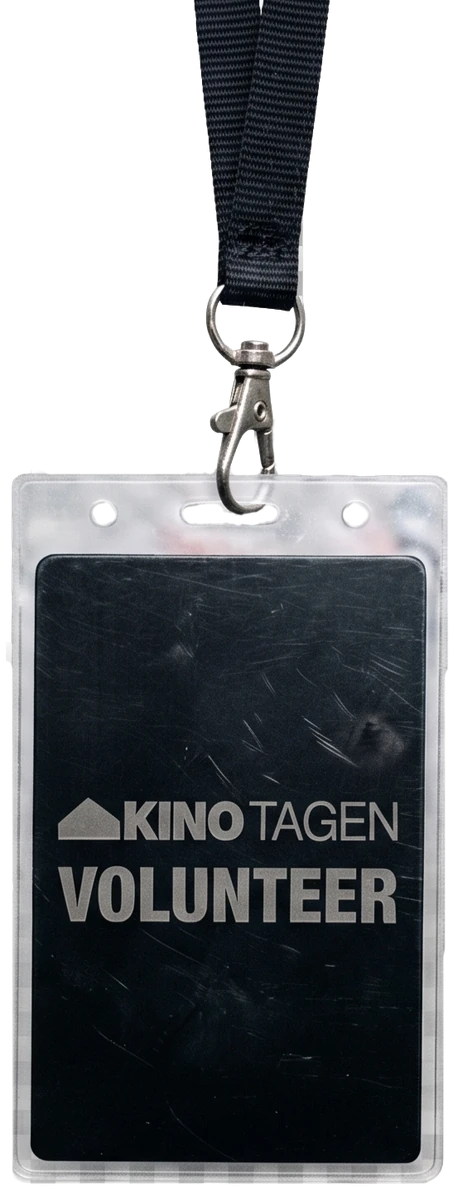
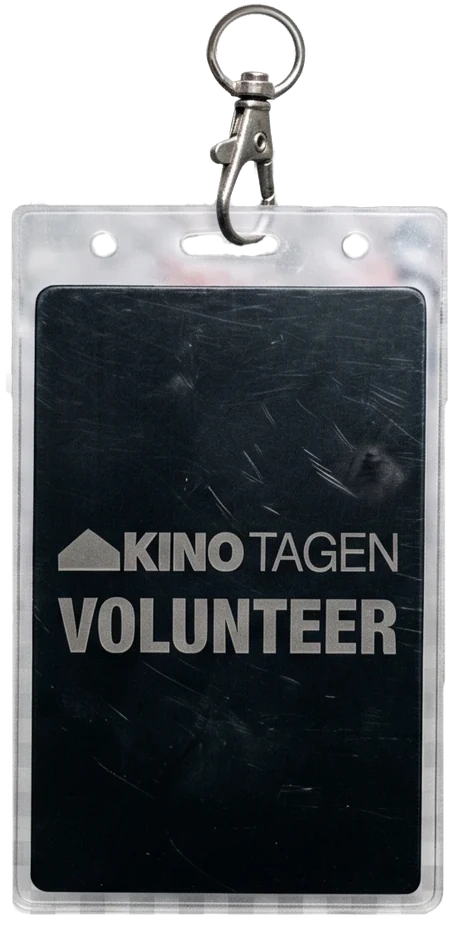
Text as obstacles, bigger objects, new headline
- Headline "Hi! I’m Yelyzaveta Volkova"; top bar and eyebrow removed, smaller type
- Objects fall around the text (text blocks are colliders) and hang over the
  screen edges; one of each, drawn large
- Kino badge without the cut-off strap (ring top rebuilt); added red Alta bag,
  Oxis badge and blue Oxis record sleeve
- Phones: objects fall into a separate box below the project list

Claude-Session: https://claude.ai/code/session_01QeynNN9sgHemNmtMBCwfCa

diff --git a/index.html b/index.html
@@ -3,8 +3,8 @@
 <head>
 <meta charset="UTF-8">
 <meta name="viewport" content="width=device-width,initial-scale=1">
-<title>Yelyzaveta Volkova — Graphic design portfolio</title>
-<meta name="description" content="Lisa (Yelyzaveta) Volkova — graphic designer working between culture and marketing: identities, packaging and ad creatives.">
+<title>Yelyzaveta Volkova · Portfolio</title>
+<meta name="description" content="Lisa (Yelyzaveta) Volkova, graphic designer. Portfolio.">
 <link rel="preconnect" href="https://fonts.googleapis.com">
 <link rel="preconnect" href="https://fonts.gstatic.com" crossorigin>
 <link href="https://fonts.googleapis.com/css2?family=LINE+Seed+JP:wght@400;700&family=Stack+Sans+Headline:wght@400..700&display=swap" rel="stylesheet">
@@ -18,61 +18,54 @@
 }
 *{margin:0;padding:0;box-sizing:border-box}
 html{-webkit-text-size-adjust:100%}
-body{background:var(--bg);color:var(--ink);font-family:var(--body);-webkit-font-smoothing:antialiased;
- min-height:100vh;min-height:100svh;overflow-x:hidden}
+body{background:var(--bg);color:var(--ink);font-family:var(--body);-webkit-font-smoothing:antialiased;overflow-x:hidden}
 button{font:inherit;color:inherit;background:none;border:0;cursor:pointer;text-align:left}
 :focus-visible{outline:2px solid var(--ink);outline-offset:3px}
 
-/* Text sits on white "labels" so it stays readable when objects pile up behind it */
-.hl{background:var(--bg);-webkit-box-decoration-break:clone;box-decoration-break:clone;pointer-events:auto;
- padding:.16em 0;box-shadow:.3em 0 0 var(--bg),-.3em 0 0 var(--bg)}
-
-/* ---------- top bar ---------- */
-.bar{position:absolute;top:0;left:0;right:0;z-index:3;display:flex;justify-content:space-between;align-items:baseline;
- padding:calc(var(--gut) + 6px) var(--gut) 0;font-size:clamp(16px,1.45vw,21px);letter-spacing:.005em;pointer-events:none}
-
 /* ---------- hero ---------- */
-.hero{position:relative;z-index:2;min-height:100vh;min-height:100svh;display:flex;flex-direction:column;justify-content:center;
- padding:clamp(110px,14vh,150px) var(--gut) clamp(70px,10vh,110px) calc(var(--gut) + var(--indent));pointer-events:none}
-.eyebrow{font-size:clamp(18px,1.9vw,28px);margin-bottom:clamp(6px,1vw,14px)}
-h1{font-family:var(--head);font-weight:700;font-size:clamp(54px,10.2vw,172px);line-height:.94;letter-spacing:-.035em;
- margin-left:-.05em;max-width:12ch}
-.cols{display:grid;grid-template-columns:minmax(0,34ch) minmax(0,520px);gap:clamp(28px,6vw,110px);
- margin-top:clamp(28px,5.2vh,60px);align-items:start}
-.intro{font-size:clamp(17px,1.5vw,22px);line-height:1.42}
+.hero{position:relative;min-height:100vh;min-height:100svh;display:flex;flex-direction:column;justify-content:center;overflow:hidden;
+ padding:clamp(72px,11vh,120px) var(--gut) clamp(80px,11vh,120px) calc(var(--gut) + var(--indent))}
+.hero>*:not(#pile){position:relative;z-index:2}
+/* the name (~8.3em) stays on one line, so the size is capped by the available width */
+h1{font-family:var(--head);font-weight:700;font-size:min(clamp(40px,7vw,116px),calc((100vw - 2*var(--gut) - var(--indent))/8.6));
+ line-height:.94;letter-spacing:-.035em;margin-left:-.05em;align-self:flex-start}
+.cols{display:grid;grid-template-columns:minmax(0,30ch) minmax(0,460px);gap:clamp(28px,6vw,110px);
+ margin-top:clamp(24px,4.4vh,48px);align-items:start;justify-content:start}
+.intro{font-size:clamp(15px,1.2vw,18px);line-height:1.45}
 
 /* ---------- project index ---------- */
-.work{pointer-events:auto}
-.work .lbl{font-size:12px;letter-spacing:.14em;text-transform:uppercase;color:var(--muted);margin-bottom:10px;display:inline-block}
+.work .lbl{font-size:11px;letter-spacing:.14em;text-transform:uppercase;color:var(--muted);margin-bottom:10px;display:block}
 .work ol{list-style:none}
 .row{display:grid;grid-template-columns:2.6em 1fr auto;gap:0 14px;align-items:baseline;width:100%;
- padding:13px 0 12px;border-top:1px solid var(--hair);background:var(--bg);transition:padding .35s cubic-bezier(.2,.7,.2,1)}
+ padding:11px 0 10px;border-top:1px solid var(--hair);transition:padding .35s cubic-bezier(.2,.7,.2,1)}
 .work li:last-child .row{border-bottom:1px solid var(--hair)}
-.row .no{font-size:13px;color:var(--muted);font-variant-numeric:tabular-nums}
-.row .nm{font-family:var(--head);font-weight:600;font-size:clamp(19px,1.6vw,24px);letter-spacing:-.01em}
-.row .ds{font-size:clamp(13px,1vw,15px);color:var(--muted);text-align:right}
+.row .no{font-size:12px;color:var(--muted);font-variant-numeric:tabular-nums}
+.row .nm{font-family:var(--head);font-weight:600;font-size:clamp(16px,1.25vw,19px);letter-spacing:-.01em}
+.row .ds{font-size:clamp(12px,.9vw,14px);color:var(--muted);text-align:right}
 .row .ar{display:inline-block;width:0;overflow:hidden;opacity:0;transition:width .35s,opacity .3s;vertical-align:bottom}
 .row:hover,.row.hot{padding-left:10px}
 .row:hover .ar,.row.hot .ar{width:1.2em;opacity:1}
 
 /* ---------- falling objects ---------- */
-#pile{position:fixed;inset:0;z-index:1;overflow:hidden;user-select:none;-webkit-user-select:none;pointer-events:none}
+/* #pile lives in the hero on wide screens (objects fall around the text) and in #play on narrow ones */
+#pile{position:absolute;inset:0;z-index:1;overflow:hidden;user-select:none;-webkit-user-select:none;pointer-events:none}
 body.raining #pile{pointer-events:auto}
 #pile.grab{cursor:grab}#pile.grabbing{cursor:grabbing}
 .it{position:absolute;left:0;top:0;will-change:transform;transition:opacity .35s}
 .it img{display:block;width:100%;height:100%;pointer-events:none;-webkit-user-drag:none;
  filter:drop-shadow(0 10px 14px rgba(0,0,0,.16))}
 #pile.focus .it:not(.on){opacity:.12}
+#play{display:none;position:relative;height:72vh;height:72svh;border-top:1px solid var(--hair);overflow:hidden}
 
 #tip{position:fixed;left:0;top:0;z-index:6;pointer-events:none;background:var(--ink);color:var(--bg);font-size:13px;
  padding:7px 11px 6px;border-radius:100px;white-space:nowrap;opacity:0;transition:opacity .15s}
 #tip.show{opacity:1}
 #tip b{font-family:var(--head);font-weight:600;margin:0 .35em}
 
-.ctl{position:fixed;right:var(--gut);bottom:var(--gut);z-index:4;display:flex;gap:10px;align-items:center;
+.ctl{position:absolute!important;right:var(--gut);bottom:var(--gut);display:flex;gap:14px;align-items:center;
  opacity:0;transform:translateY(8px);transition:opacity .5s,transform .5s;pointer-events:none}
 body.ready .ctl{opacity:1;transform:none;pointer-events:auto}
-.ctl .hint{font-size:12px;color:var(--muted);background:var(--bg);padding:4px 6px}
+.ctl .hint{font-size:12px;color:var(--muted)}
 .pill{font-size:13px;border:1px solid var(--ink);background:var(--bg);border-radius:100px;padding:9px 16px 8px;transition:background .2s,color .2s}
 .pill:hover{background:var(--ink);color:var(--bg)}
 
@@ -85,26 +78,31 @@ body.ready .ctl{opacity:1;transform:none;pointer-events:auto}
 .cin{max-width:1180px;margin:0 auto;padding:clamp(30px,6vh,70px) var(--gut) 110px}
 .chead{margin-bottom:clamp(36px,6vh,64px)}
 .chead .no{font-size:14px;color:var(--muted);font-variant-numeric:tabular-nums}
-.chead h2{font-family:var(--head);font-weight:700;font-size:clamp(46px,8vw,128px);line-height:.95;letter-spacing:-.035em;margin:10px 0 14px -.04em}
-.chead .d{font-size:clamp(17px,1.5vw,22px)}
+.chead h2{font-family:var(--head);font-weight:700;font-size:clamp(38px,6vw,96px);line-height:.95;letter-spacing:-.035em;margin:10px 0 14px -.04em}
+.chead .d{font-size:clamp(15px,1.2vw,18px)}
 .deck{display:flex;flex-direction:column;gap:clamp(14px,2vw,26px)}
 .deck img{display:block;width:100%;height:auto;background:#f4f4f4}
 .cnext{margin-top:clamp(50px,8vh,90px);border-top:1px solid var(--hair);padding-top:22px;width:100%;display:flex;
  justify-content:space-between;align-items:baseline;gap:16px}
 .cnext span{font-size:13px;color:var(--muted)}
-.cnext b{font-family:var(--head);font-weight:700;font-size:clamp(30px,4.5vw,64px);letter-spacing:-.03em;transition:transform .35s}
+.cnext b{font-family:var(--head);font-weight:700;font-size:clamp(26px,3.4vw,48px);letter-spacing:-.03em;transition:transform .35s}
 .cnext:hover b{transform:translateX(-10px)}
 
 @media (max-width:900px){
  :root{--indent:0px}
  .cols{grid-template-columns:1fr;gap:44px}
  .intro{max-width:34ch}
- .row .ds{font-size:13px}
+ .row .ds{font-size:12px}
+}
+@media (max-width:700px){
+ .hero{min-height:0;padding-bottom:56px}
+ #play{display:block}
+ .ctl{top:var(--gut);bottom:auto}
+ .ctl .hint{display:none}
 }
 @media (max-width:520px){
  .row{grid-template-columns:2.2em 1fr}
  .row .ds{grid-column:2;text-align:left;margin-top:3px}
- .ctl .hint{display:none}
 }
 @media (hover:none),(pointer:coarse){
  body.raining #pile{pointer-events:none}
@@ -115,17 +113,13 @@ body.ready .ctl{opacity:1;transform:none;pointer-events:auto}
 </head>
 <body>
 
-<div id="pile" aria-hidden="true"></div>
-
-<header class="bar"><span class="hl">Yelyzaveta Volkova</span><span class="hl">2026</span></header>
-
-<main class="hero">
- <p class="eyebrow"><span class="hl">Graphic design</span></p>
- <h1>Hi! My name<br> is Lisa!</h1>
+<main class="hero" id="hero">
+ <div id="pile" aria-hidden="true"></div>
+ <h1>Hi! I’m<br>Yelyzaveta&nbsp;Volkova</h1>
  <div class="cols">
-  <p class="intro"><span class="hl">I’m a graphic designer working between culture and marketing. I’ve made identities and visuals for film festivals, exhibitions and music labels — and ad creatives that have to perform. I enjoy designing things people stop for, for projects that make a difference.</span></p>
+  <p class="intro">I’m a graphic designer working between culture and marketing. I’ve made identities and visuals for film festivals, exhibitions and music labels, and ad creatives that have to perform. I enjoy designing things people stop for, for projects that make a difference.</p>
   <nav class="work" aria-label="Selected work">
-   <span class="lbl hl">Selected work</span>
+   <span class="lbl">Selected work</span>
    <ol>
     <li><button class="row" data-id="kino"><span class="no">01</span><span class="nm">Kino Tagen<span class="ar"> →</span></span><span class="ds">Identity for a film festival</span></button></li>
     <li><button class="row" data-id="chimera"><span class="no">02</span><span class="nm">Chimèra<span class="ar"> →</span></span><span class="ds">Packaging design</span></button></li>
@@ -135,9 +129,9 @@ body.ready .ctl{opacity:1;transform:none;pointer-events:auto}
    </ol>
   </nav>
  </div>
+ <div class="ctl"><span class="hint">Drag things around · click one to open it</span><button class="pill" id="clear">Clear the table</button></div>
 </main>
-
-<div class="ctl"><span class="hint">Drag things around · click one to open it</span><button class="pill" id="clear">Clear the table</button></div>
+<section id="play" aria-hidden="true"></section>
 <div id="tip"></div>
 
 <section id="case" aria-hidden="true">
@@ -155,9 +149,9 @@ body.ready .ctl{opacity:1;transform:none;pointer-events:auto}
 // size: object height as a share of sqrt(viewport area); fill: how much of its box the object covers.
 // shape: collider parts in image-relative units (0..1): ['r',x0,y0,x1,y1] rectangle, ['c',cx,cy,r] circle (r in widths)
 const WORK=[
- {id:'kino',no:'01',name:'Kino Tagen',desc:'Identity for a film festival',ar:453/1200,size:.25,fill:.6,
+ {id:'kino',no:'01',name:'Kino Tagen',desc:'Identity for a film festival',ar:453/931,size:.194,fill:.7,
   deck:Array.from({length:13},(_,i)=>[`kino-${String(i+1).padStart(2,'0')}`,1250,804]),
-  shape:[['r',.44,.0,.70,.40],['r',.03,.395,.98,.99]]},
+  shape:[['r',.45,0,.68,.225],['r',.03,.22,.98,.987]]},
  {id:'chimera',no:'02',name:'Chimèra',desc:'Packaging design',ar:315/1200,size:.27,fill:.8,
   deck:[['chimera-01',1250,6072]],
   shape:[['r',.31,.015,.69,.37],['r',.02,.35,.985,.99]]},
@@ -172,33 +166,68 @@ const WORK=[
   shape:[['r',.02,0,.99,1]]},
 ];
 const byId=Object.fromEntries(WORK.map(p=>[p.id,p]));
+// what falls: one of each, each tied to its project. MORE are extra objects from the project mockups.
+const MORE=[
+ {id:'alta',f:'alta-bag-red',ar:.619,size:.19,shape:[['p',[[.012,.951],[.012,.286],[.062,.028],[.116,.02],[.851,.008],[.917,.018],[.983,.253],[.983,.962],[.893,.99],[.219,.967]]]]},
+ {id:'oxis',f:'oxis-sleeve-blue',ar:1.036,size:.17,shape:[['r',0,0,1,1]]},
+ {id:'oxis',f:'oxis-badge',ar:372/632,size:.3,shape:[['r',0.027,0.324,0.599,0.88],['p',[[0.599,0.068],[0.742,0.068],[0.371,0.313],[0.304,0.315],[0.282,0.301],[0.285,0.278],[0.433,0.161],[0.513,0.109]]],['p',[[0.688,0.913],[0.602,0.066],[0.726,0.013],[0.852,0.081],[0.879,0.191],[0.96,0.886],[0.89,0.965],[0.774,0.97]]]]},
+];
+const KINDS=[...WORK.map(p=>({p,src:`assets/objects/${p.id}.webp`,ar:p.ar,size:p.size,shape:p.shape})),
+ ...MORE.map(e=>({p:byId[e.id],src:`assets/objects/${e.f}.webp`,ar:e.ar,size:e.size,shape:e.shape}))];
+const BIG=1.7;   // objects are drawn large and may hang over the edges of the screen
 
 /* ---------- falling objects ---------- */
 const RAIN_DELAY=10000;   // ms of visible time before things start to fall
-const {Engine,Bodies,Body,Composite,Constraint,Query,Sleeping}=Matter;
-const pile=document.getElementById('pile'),tip=document.getElementById('tip'),clearBtn=document.getElementById('clear');
+const {Engine,Bodies,Body,Composite,Constraint,Query,Sleeping,Vertices}=Matter;
+const pile=document.getElementById('pile'),hero=document.getElementById('hero'),play=document.getElementById('play');
+const tip=document.getElementById('tip'),clearBtn=document.getElementById('clear'),ctl=document.querySelector('.ctl');
 const rows=[...document.querySelectorAll('.row')];
 const reduced=matchMedia('(prefers-reduced-motion: reduce)').matches;
 const touch=matchMedia('(hover: none), (pointer: coarse)').matches;
+const narrow=matchMedia('(max-width: 700px)');
 const engine=Engine.create({enableSleeping:true});engine.gravity.y=1.1;
 const world=engine.world;
 const T=600;
-let W=innerWidth,H=innerHeight,items=[],walls=[],paused=false,state='idle',focusId=null;
-const unit=()=>Math.sqrt(W*H)*(W<600?1.05:1);
+let W=0,H=0,items=[],walls=[],obstacles=[],paused=false,state='idle',focusId=null;
+const unit=()=>Math.sqrt(innerWidth*innerHeight)*(narrow.matches?.9:.72);
 
-function buildWalls(){
- Composite.remove(world,walls);
- const o={isStatic:true,friction:.6,restitution:.1};
- walls=[Bodies.rectangle(-T/2,H-9000,T,20000,o),Bodies.rectangle(W+T/2,H-9000,T,20000,o)];
- if(state!=='clearing')walls.push(Bodies.rectangle(W/2,H+T/2,W+2*T,T,o));   // floor
- Composite.add(world,walls);
+// On wide screens the objects fall inside the hero and bounce off the text; on narrow ones they fill #play below it
+function mount(){
+ const box=narrow.matches?play:hero;
+ if(pile.parentNode!==box){box.prepend(pile);box.appendChild(ctl)}
+ W=box.clientWidth;H=box.clientHeight;
 }
-buildWalls();
+function rel(r){const b=pile.getBoundingClientRect();return{x:r.left-b.left,y:r.top-b.top,w:r.width,h:r.height}}
+function textRects(){
+ if(narrow.matches)return[];
+ const out=[];
+ const lines=el=>{const rg=document.createRange();rg.selectNodeContents(el);
+  // one rect per line, trimmed to the ink so objects can sit right on the letters
+  const cut=el.tagName==='H1'?[.2,.1]:[.12,.08];
+  [...rg.getClientRects()].filter(r=>r.width>4).forEach(r=>{const q=rel(r);q.y+=q.h*cut[0];q.h*=1-cut[0]-cut[1];out.push(q)})};
+ lines(document.querySelector('h1'));lines(document.querySelector('.intro'));
+ out.push(rel(document.querySelector('.work').getBoundingClientRect()));
+ if(document.body.classList.contains('ready'))out.push(rel(ctl.getBoundingClientRect()));
+ return out;
+}
+const edge=()=>unit()*(narrow.matches?.07:.09);
+function buildWalls(){
+ Composite.remove(world,walls);Composite.remove(world,obstacles);obstacles=[];
+ const o={isStatic:true,friction:.6,restitution:.1},m=edge();
+ // sides and floor sit outside the visible frame, so objects resting there are cut by the edge
+ walls=[Bodies.rectangle(-m-T/2,H-9000,T,20000,o),Bodies.rectangle(W+m+T/2,H-9000,T,20000,o)];
+ if(state!=='clearing'){
+  walls.push(Bodies.rectangle(W/2,H+m+T/2,W+2*T,T,o));   // floor
+  obstacles=textRects().map(r=>Bodies.rectangle(r.x+r.w/2,r.y+r.h/2,r.w,Math.max(r.h,8),{...o,chamfer:{radius:Math.min(6,r.h/3)}}));
+ }
+ Composite.add(world,walls);Composite.add(world,obstacles);
+}
 
-function makeItem(p,x,y,scale){
- const h=p.size*unit()*scale,w=h*p.ar,x0=x-w/2,y0=y-h/2;
- const parts=p.shape.map(s=>s[0]==='c'
-  ?Bodies.circle(x0+s[1]*w,y0+s[2]*h,s[3]*w)
+function makeItem(k,x,y,scale){
+ const p=k.p,h=k.size*unit()*scale,w=h*k.ar,x0=x-w/2,y0=y-h/2;
+ const poly=vs=>{const c=Vertices.centre(vs);return Bodies.fromVertices(c.x,c.y,[vs])};
+ const parts=k.shape.map(s=>s[0]==='c'?Bodies.circle(x0+s[1]*w,y0+s[2]*h,s[3]*w)
+  :s[0]==='p'?poly(s[1].map(([u,v])=>({x:x0+u*w,y:y0+v*h})))
   :Bodies.rectangle(x0+(s[1]+s[3])/2*w,y0+(s[2]+s[4])/2*h,(s[3]-s[1])*w,(s[4]-s[2])*h,{chamfer:{radius:Math.min(w,h)*.04}}));
  const body=parts.length>1?Body.create({parts}):parts[0];
  Object.assign(body,{friction:.55,frictionStatic:.8,restitution:.12,frictionAir:.012});
@@ -208,7 +237,7 @@ function makeItem(p,x,y,scale){
  Body.setVelocity(body,{x:(Math.random()-.5)*2,y:2+Math.random()*3});
  const el=document.createElement('div');el.className='it';el.style.width=w+'px';el.style.height=h+'px';
  el.style.marginLeft=-w/2+'px';el.style.marginTop=-h/2+'px';
- const im=new Image();im.src=`assets/objects/${p.id}.webp`;im.alt='';im.draggable=false;el.appendChild(im);
+ const im=new Image();im.src=k.src;im.alt='';im.draggable=false;el.appendChild(im);
  if(focusId)el.classList.toggle('on',p.id===focusId);
  pile.appendChild(el);Composite.add(world,body);
  const it={p,body,el,off};body.item=it;items.push(it);place(it);
@@ -222,21 +251,17 @@ let spawnTimer=null;
 function rain(){
  if(state==='raining')return;
  state='raining';document.body.classList.add('raining','ready');clearBtn.textContent='Clear the table';
- buildWalls();
- // copies until they cover about half the screen (a third on phones, so reading isn't crowded)
- const target=W*H*(W<600?.34:.5),order=[],deck=[];let area=0;
- while(area<target&&order.length<90){
-  if(!deck.length)deck.push(...WORK.slice().sort(()=>Math.random()-.5));
-  const p=deck.pop(),sc=.82+Math.random()*.3,h=p.size*unit()*sc;
-  order.push([p,sc]);area+=h*h*p.ar*p.fill;
- }
+ mount();buildWalls();
+ // one of each, dropped across the whole width (edges included) in random order
+ const n=KINDS.length,slots=Array.from({length:n},(_,j)=>.03+.94*j/(n-1)).sort(()=>Math.random()-.5);
+ const order=KINDS.slice().sort(()=>Math.random()-.5).map((k,j)=>[k,BIG*(.94+Math.random()*.12),slots[j]]);
  let i=0;clearInterval(spawnTimer);
  spawnTimer=setInterval(()=>{
   if(paused)return;
   if(i>=order.length){clearInterval(spawnTimer);return}
-  const [p,sc]=order[i++],h=p.size*unit()*sc,w=h*p.ar;
-  makeItem(p,w/2+10+Math.random()*Math.max(1,W-w-20),-h*.75-Math.random()*120,sc);
- },W<600?150:95);
+  const [k,sc,slot]=order[i++],h=k.size*unit()*sc;
+  makeItem(k,slot*W+(Math.random()-.5)*W*.06,-h*.6-Math.random()*80,sc);
+ },narrow.matches?260:220);
 }
 function clearTable(){
  clearInterval(spawnTimer);state='clearing';buildWalls();
@@ -261,12 +286,17 @@ function frame(now){
 requestAnimationFrame(frame);
 function setPaused(v){paused=v;last=performance.now()}
 
-/* start after RAIN_DELAY of visible time; images are decoded first so nothing falls in empty */
-const decoded=Promise.all(WORK.map(p=>{const im=new Image();im.src=`assets/objects/${p.id}.webp`;return im.decode().catch(()=>{})}));
+/* start after RAIN_DELAY of visible time (on phones: once the box below is scrolled into view);
+   fonts and images load first so the text shapes are final and nothing falls in empty */
+mount();
+const ready=Promise.all([document.fonts.ready,...KINDS.map(k=>{const im=new Image();im.src=k.src;return im.decode().catch(()=>{})})]);
 if(reduced){document.body.classList.add('ready');clearBtn.textContent='Drop the objects'}
-else{
+else if(narrow.matches){
+ const io=new IntersectionObserver(es=>{if(es[0].isIntersecting){io.disconnect();ready.then(rain)}},{threshold:.35});
+ io.observe(play);
+}else{
  let left=RAIN_DELAY,startedAt=0,t=null;
- const arm=()=>{if(state!=='idle'||document.hidden||t)return;startedAt=performance.now();t=setTimeout(()=>decoded.then(rain),left)};
+ const arm=()=>{if(state!=='idle'||document.hidden||t)return;startedAt=performance.now();t=setTimeout(()=>ready.then(rain),left)};
  const disarm=()=>{if(!t)return;clearTimeout(t);t=null;left=Math.max(0,left-(performance.now()-startedAt))};
  document.addEventListener('visibilitychange',()=>document.hidden?disarm():arm());
  arm();
@@ -274,6 +304,7 @@ else{
 
 /* ---------- hover, drag, click ---------- */
 function focusProject(id){
+ if(id&&!items.some(it=>it.p.id===id))id=null;   // nothing of this project on screen: don't dim the rest
  focusId=id;pile.classList.toggle('focus',!!id);
  items.forEach(it=>it.el.classList.toggle('on',it.p.id===id));
 }
@@ -286,18 +317,20 @@ function bodyAt(x,y){
 let drag=null,hotRow=null;
 function setHot(id){if(hotRow)hotRow.classList.remove('hot');hotRow=id?rows.find(r=>r.dataset.id===id):null;if(hotRow)hotRow.classList.add('hot')}
 if(!touch){
+ const pt=e=>{const b=pile.getBoundingClientRect();return{x:e.clientX-b.left,y:e.clientY-b.top}};
  pile.addEventListener('pointermove',e=>{
-  const x=e.clientX,y=e.clientY;
+  const {x,y}=pt(e);
   if(drag){drag.c.pointA={x,y};return}
   const b=bodyAt(x,y);
   pile.classList.toggle('grab',!!b);
-  if(b){const p=b.item.p;tip.innerHTML=`${p.no}<b>${p.name}</b>${p.desc.toLowerCase()}`;
-   tip.style.transform=`translate(${Math.min(x+16,W-tip.offsetWidth-8)}px,${y+52>H?y-tip.offsetHeight-12:y+18}px)`;tip.classList.add('show');setHot(p.id)}
+  if(b){const p=b.item.p,cx=e.clientX,cy=e.clientY;tip.innerHTML=`${p.no}<b>${p.name}</b>${p.desc.toLowerCase()}`;
+   tip.style.transform=`translate(${Math.min(cx+16,innerWidth-tip.offsetWidth-8)}px,${cy+52>innerHeight?cy-tip.offsetHeight-12:cy+18}px)`;
+   tip.classList.add('show');setHot(p.id)}
   else{tip.classList.remove('show');setHot(null)}
  });
  pile.addEventListener('pointerleave',()=>{if(!drag){tip.classList.remove('show');setHot(null);pile.classList.remove('grab')}});
  pile.addEventListener('pointerdown',e=>{
-  const x=e.clientX,y=e.clientY,b=bodyAt(x,y);if(!b)return;
+  const {x,y}=pt(e),b=bodyAt(x,y);if(!b)return;
   e.preventDefault();pile.setPointerCapture(e.pointerId);
   Sleeping.set(b,false);
   const c=Constraint.create({pointA:{x,y},bodyB:b,pointB:{x:x-b.position.x,y:y-b.position.y},stiffness:.18,damping:.1,length:0});
@@ -308,7 +341,7 @@ if(!touch){
  const drop=e=>{
   if(!drag)return;
   Composite.remove(world,drag.c);pile.classList.remove('grabbing');
-  const click=Math.hypot(e.clientX-drag.x,e.clientY-drag.y)<6&&performance.now()-drag.t<400,id=drag.b.item.p.id;
+  const {x,y}=pt(e),click=Math.hypot(x-drag.x,y-drag.y)<6&&performance.now()-drag.t<400,id=drag.b.item.p.id;
   drag=null;
   if(click&&e.type==='pointerup')openCase(id);
  };
@@ -316,12 +349,16 @@ if(!touch){
 }
 
 /* ---------- resize ---------- */
-let rt=null;
+let rt=null,lastNarrow=narrow.matches;
 addEventListener('resize',()=>{clearTimeout(rt);rt=setTimeout(()=>{
- W=innerWidth;H=innerHeight;buildWalls();
- items.forEach(it=>{const b=it.body,x=Math.min(Math.max(b.position.x,40),W-40),y=Math.min(b.position.y,H-40);
-  if(x!==b.position.x||(state!=='clearing'&&y!==b.position.y)){Body.setPosition(b,{x,y:state==='clearing'?b.position.y:y});Sleeping.set(b,false)}});
-},120)});
+ if(narrow.matches!==lastNarrow){   // switching layout: start over in the new place
+  lastNarrow=narrow.matches;items.forEach(it=>{Composite.remove(world,it.body);it.el.remove()});items=[];
+  mount();buildWalls();if(state==='raining'){state='idle';rain()}return;
+ }
+ mount();buildWalls();
+ items.forEach(it=>{const b=it.body,x=Math.min(Math.max(b.position.x,40),W-40);
+  if(x!==b.position.x){Body.setPosition(b,{x,y:b.position.y})}Sleeping.set(b,false)});
+},150)});
 
 /* ---------- case view ---------- */
 const caseEl=document.getElementById('case');
@@ -334,7 +371,7 @@ function render(id){
  caseEl.querySelector('h2').textContent=p.name;
  caseEl.querySelector('.d').textContent=p.desc;
  const deck=caseEl.querySelector('.deck');deck.innerHTML='';
- p.deck.forEach(([f,w,h],i)=>{const im=new Image();im.width=w;im.height=h;im.alt=`${p.name} — ${i+1}`;
+ p.deck.forEach(([f,w,h],i)=>{const im=new Image();im.width=w;im.height=h;im.alt=`${p.name}, ${i+1}`;
   if(i>1)im.loading='lazy';im.decoding='async';im.src=`assets/work/${f}.webp`;deck.appendChild(im)});
  const nx=WORK[(WORK.indexOf(p)+1)%WORK.length],nb=document.getElementById('next');
  nb.querySelector('b').textContent=nx.name+' →';nb.dataset.id=nx.id;
